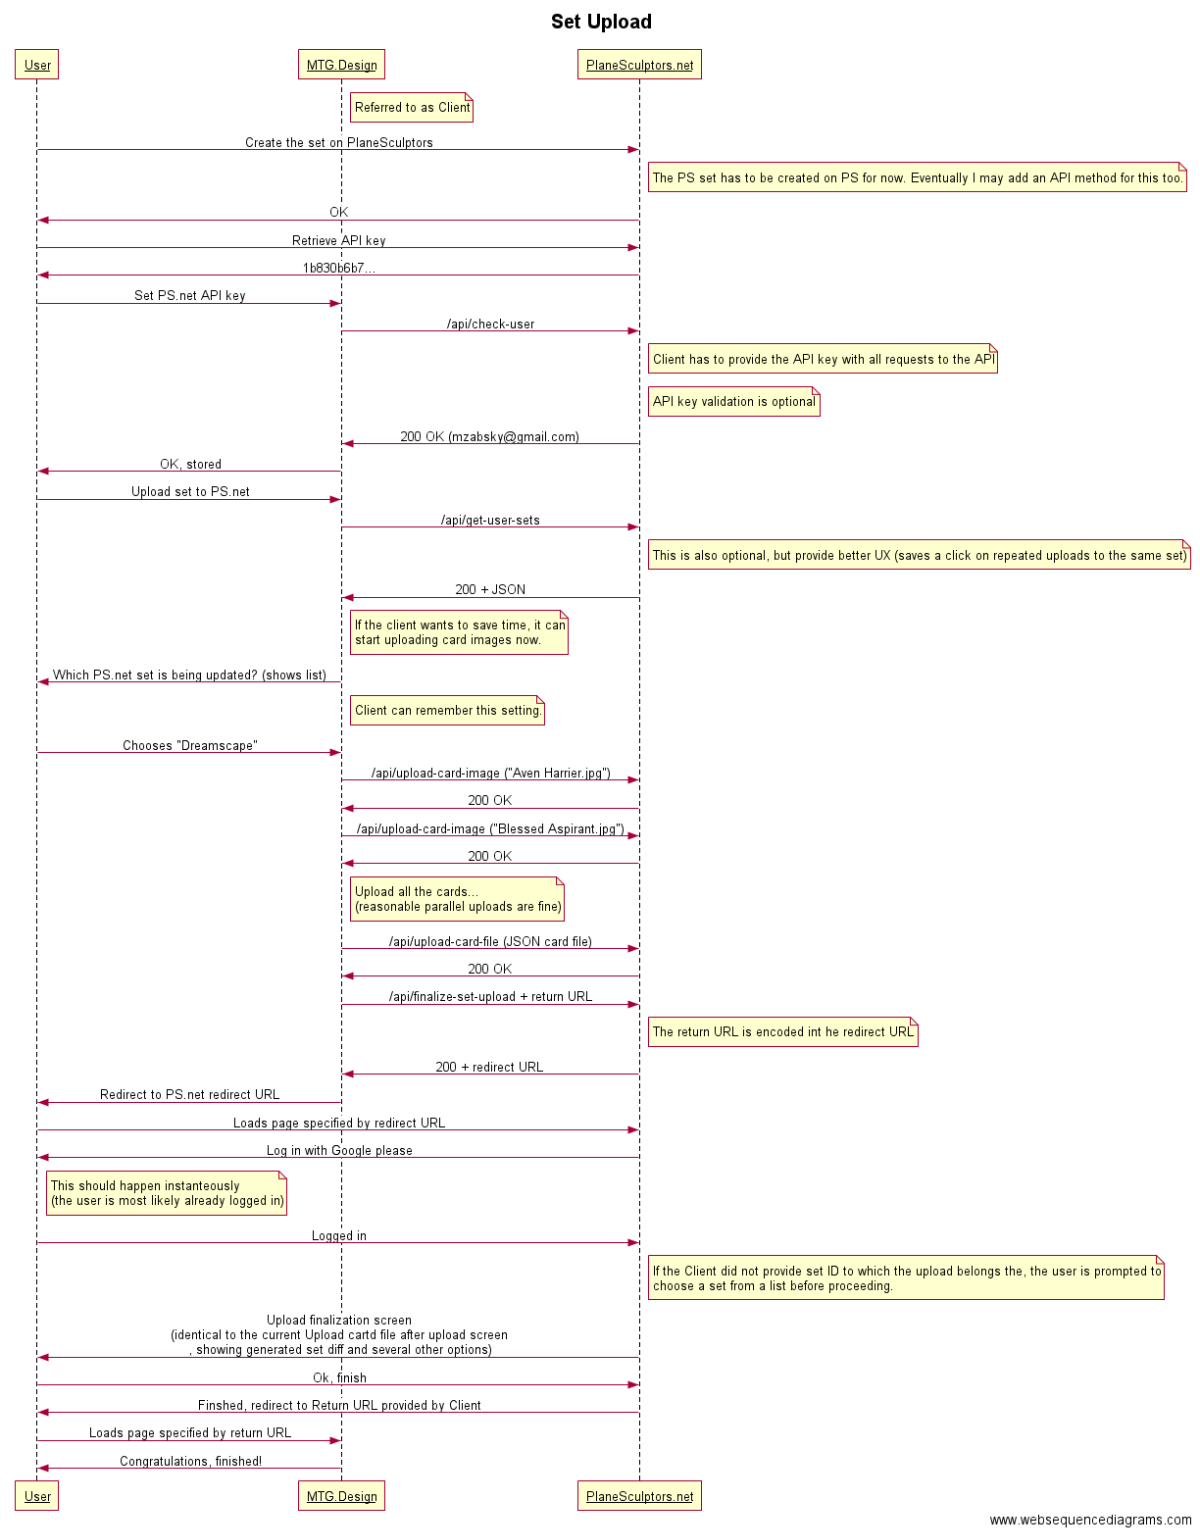
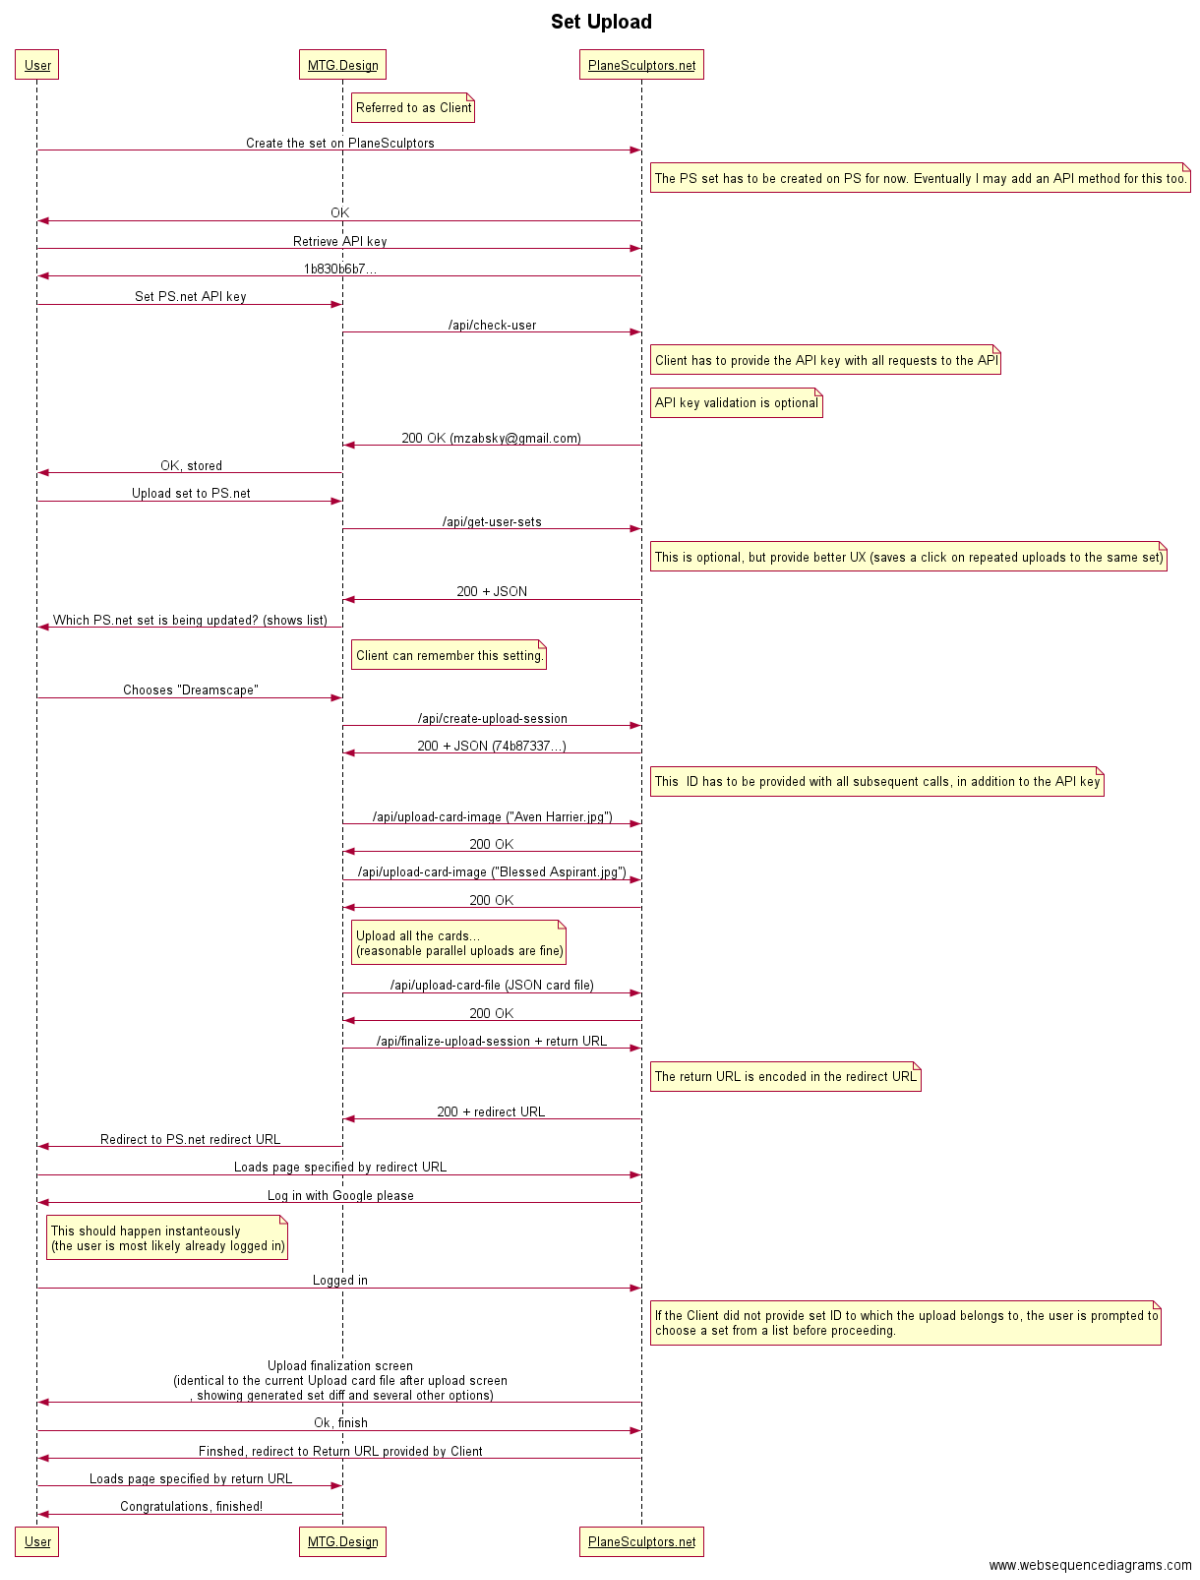
Introduced upload sessions.

diff --git a/module/Application/src/Application/Controller/ApiController.php b/module/Application/src/Application/Controller/ApiController.php
@@ -18,13 +18,49 @@ class ApiController extends WebDrafterControllerBase
 {
 	protected $user;
 	
+	private function getApiUploadDir() 
+	{
+		$config = $this->getServiceLocator()->get('Config');
+		$dataDir = $config["data_dir"];
+			
+		$ds = DIRECTORY_SEPARATOR;
+		
+		return $dataDir . $this->user->userId . $ds . "temp" . $ds . "api";
+	}
+	
+	private function getCurrentUploadSessionId()
+	{
+		$targetPath = $this->getApiUploadDir() . DIRECTORY_SEPARATOR . "session";
+		if(file_exists($targetPath)){
+			return file_get_contents($targetPath);
+		}
+		else {
+			return null;
+		}
+	}
+	
+	private function checkUploadSessionId(){
+		$uploadSessionId = @$_POST["uploadSessionId"];
+		if($uploadSessionId === null) {
+			$this->getResponse()->setStatusCode(400);
+			$this->getResponse()->setReasonPhrase("Upload session ID not set.");
+			return $this->getResponse();
+		}
+		else if($uploadSessionId != $this->getCurrentUploadSessionId()) {
+			$this->getResponse()->setStatusCode(409);
+			$this->getResponse()->setReasonPhrase("Bad upload session ID (another session is in progress).");
+			return $this->getResponse();
+		}
+
+		return null;
+	}
+	
 	public function onDispatch(\Zend\Mvc\MvcEvent $e)
 	{
 		$apiKey = @$_POST["apiKey"];
 		if($apiKey == null){
 			$this->getResponse()->setStatusCode(401);
 			$this->getResponse()->setReasonPhrase("API key not provided.");
-			$this->getResponse()->setContent(var_export($_POST, true));
         	return $this->getResponse();
 		}
 		
@@ -75,15 +111,28 @@ class ApiController extends WebDrafterControllerBase
     	$jsonModel->sets = $jsonSets;
     	return $jsonModel;
     }
-    
-    public function resetUploadSession()
+
+    public function createUploadSessionAction()
     {
-    	$config = $this->getServiceLocator()->get('Config');
-    	$dataDir = $config["data_dir"];
-    	$targetPath = $dataDir . $userId . $ds . "temp" . $ds . "api" . $ds;
- 		// TODO: Finish
+    	if($this->getCurrentUploadSessionId() != null) {
+    		$files = glob($this->getApiUploadDir());
+    		foreach($files as $file){
+    			if(is_file($file))
+    				unlink($file);
+    		}
+    	}
+    	
+    	$uploadDir = $this->getApiUploadDir();
+    	if(!is_dir($uploadDir)){
+    		mkdir($uploadDir, 0777, true);
+    	}
+    	
+    	$targetPath = $uploadDir . DIRECTORY_SEPARATOR . "session";
+    	$uploadSessionId = md5("api" . time() . $this->user->userId);
+    	file_put_contents($targetPath, $uploadSessionId);
     	
     	$jsonModel = new JsonModel();
+    	$jsonModel->uploadSessionId = $uploadSessionId;
     	return $jsonModel;
     }
     
@@ -95,6 +144,10 @@ class ApiController extends WebDrafterControllerBase
     	$this->getResponse()->setReasonPhrase("file ");
     	$this->getResponse()->setContent(var_export($_FILES, true));
     	return $this->getResponse();*/
+    	
+    	if(($reponse = $this->checkUploadSessionId()) !== null) {
+    		return response;
+    	}
     	
     	$userId = $this->user->userId;
     	
@@ -111,9 +164,6 @@ class ApiController extends WebDrafterControllerBase
     		$tempFile = $_FILES['file']['tmp_name'];
     			
     		$targetPath = $dataDir . $userId . $ds . "temp" . $ds . "api" . $ds;
-    		if(!is_dir($targetPath)){
-    			mkdir($targetPath, 0777, true);
-    		}
     			
     		$targetFile =  $targetPath. $_FILES['file']['name'];
     		move_uploaded_file($tempFile,$targetFile); //6
@@ -127,10 +177,9 @@ class ApiController extends WebDrafterControllerBase
     {
     	$sm = $this->getServiceLocator();
     	
-    	/*$this->getResponse()->setStatusCode(401);
-    	$this->getResponse()->setReasonPhrase("file ");
-    	$this->getResponse()->setContent(var_export($_FILES, true));
-    	return $this->getResponse();*/
+    	if(($reponse = $this->checkUploadSessionId()) !== null) {
+    		return response;
+    	}
     	
     	$userId = $this->user->userId;
     	
@@ -159,10 +208,14 @@ class ApiController extends WebDrafterControllerBase
     	return $jsonModel;
     }
     
-    public function finalizeSetUploadAction()
+    public function finalizeUploadSessionAction()
     {
     	$sm = $this->getServiceLocator();
 
+    	if(($reponse = $this->checkUploadSessionId()) !== null) {
+    		return/* response*/;
+    	}
+    	
     	$userId = $this->user->userId;
     	 
     	$config = $this->getServiceLocator()->get('Config');

diff --git a/documentation/api.md b/documentation/api.md
@@ -14,6 +14,13 @@ The client provides the API key using an `apiCode` POST parameter. If no (or an 
 
 Methods that don't require API key are considered public.
 
+## Upload session
+Upload session represents the act of uploading a single complete set. An upload session is initiated by calling `/api/create-upload-session` which returns an upload session ID. This ID is then provided by the client to the subsequent methods.
+
+One user can have only one upload session active at a time (creating an session cancels all existing ones). There is no explicit time limit imposed on duration of an upload session.
+
+If a method which requires upload session ID is not provided one, a 400 HTTP code is returned. If the upload session ID provided is not currently active (eg. because a new session started in the meantime), a 409 HTTP code is returned.
+
 ## Methods
 All methods are invoked using the POST HTTP method.
 
@@ -23,6 +30,7 @@ All requests are expected to be encoded in UTF8. All responses will be encoded i
 ### /api/get-user
 Returns information about the user owning the API key.
 - **Requires API key:** Yes
+- **Requires upload session ID:** No
 - **Request:** No additional parameters.
 - **Response:** 
 The response body contains following JSON object:
@@ -41,6 +49,7 @@ The response body contains following JSON object:
 ### /api/get-user-sets
 Returns sets owned by the user owning the API key.
 - **Requires API key:** Yes
+- **Requires upload session ID:** No
 - **Request:** No additional parameters.
 - **Response:** 
 The response body contains following JSON object:
@@ -59,15 +68,22 @@ Each set object looks like this:
 }
 ```
 
-### /api/reset-upload-session
-Resets the API upload session, deleting all files uploaded so far for the user owning the API key.
+### /api/create-upload-session
+Creates a new upload session. Cancels any existing upload sessions.
 - **Requires API key:** Yes
+- **Requires upload session ID:** No
 - **Request:** No additional parameters.
-- **Response:** An empty JSON object.
+- **Response:** The response body contains following JSON object:
+```
+{
+	'uploadSessionId': '74b87337454200d4d33f80c4663dc5e5'
+}
+```
 
 ### /api/upload-card-image
 Uploads a single card image to the current upload session for the user owning the API key.
 - **Requires API key:** Yes
+- **Requires upload session ID:** Yes
 - **Request:** A single POST file upload named `file` with any (reasonable) file name containing a JPG or PNG file, using `multipart/form-data` content disposition.
 - **Response:** An empty JSON object.
 - **Notes:** 
@@ -80,6 +96,7 @@ Feel free to initiate multiple card image uploads simultaneously (within reason,
 ### /api/upload-card-file
 Uploads a card file for the set to the current upload session for the user owning the API key.
 - **Requires API key:** Yes
+- **Requires upload session ID:** Yes
 - **Request:** A single POST file upload named `file` with any (reasonable) file name containing a text file, using `multipart/form-data` content disposition.
 - **Response:** An empty JSON object.
 - **Notes:** 
@@ -91,9 +108,10 @@ This method may be called before or after card image uploads, the order doesn't 
 
 Note that detailed validations of the individual cards are not that at the time of calling of this method, those are only done after `/api/finalize-set-upload` is called.
 
-### /api/finalize-set-upload
+### /api/finalize-upload-session
 Finalizes the set upload session for the user owning the API key, returning a redirect URL which is to be opened for the user to actually finish the set upload process directly on PlaneSculptors.
 - **Requires API key:** Yes
+- **Requires upload session ID:** Yes
 - **Request:** 
 `returnUrl` - specifies a URL, to which the user will be redirected to when the upload process is finished. If this argument is not provided, a standard PlaneSculptors confirmation page will be shown.
 `setId` - specifies an ID of a set to which this set upload belongs to. This ID can be obtained using the `/api/get-user-sets` method. If this argument is not provided, the user will be
